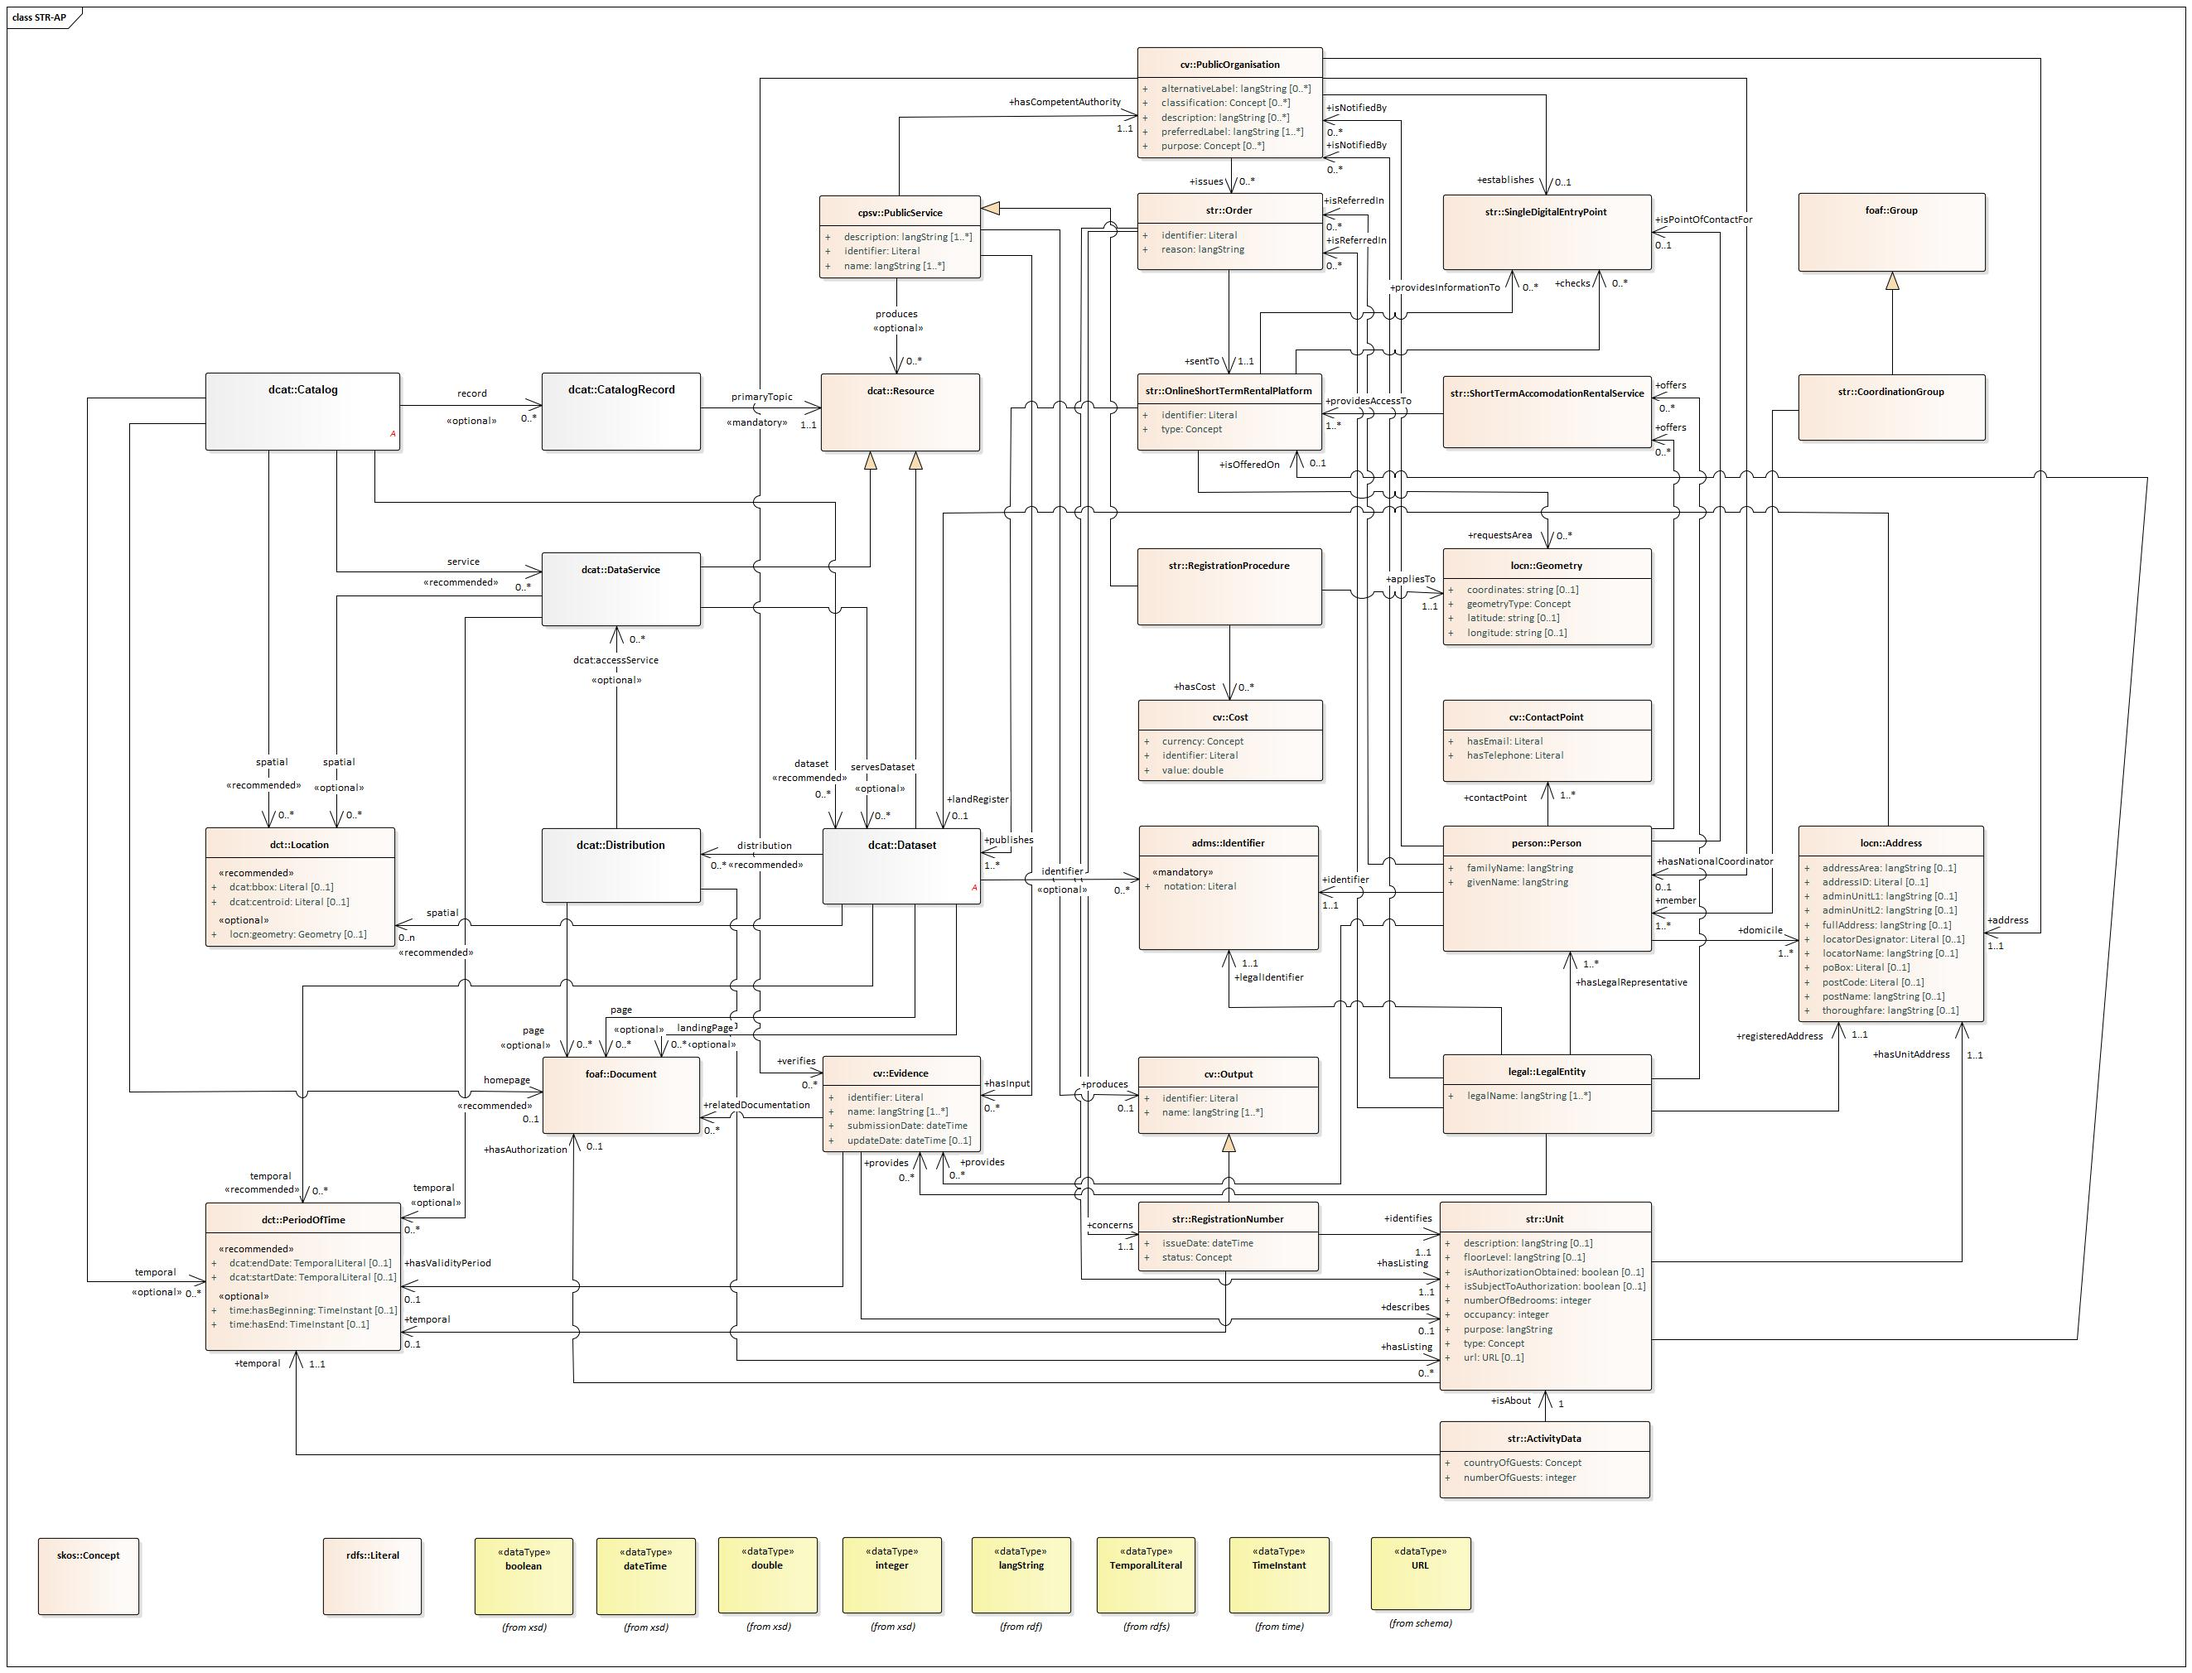
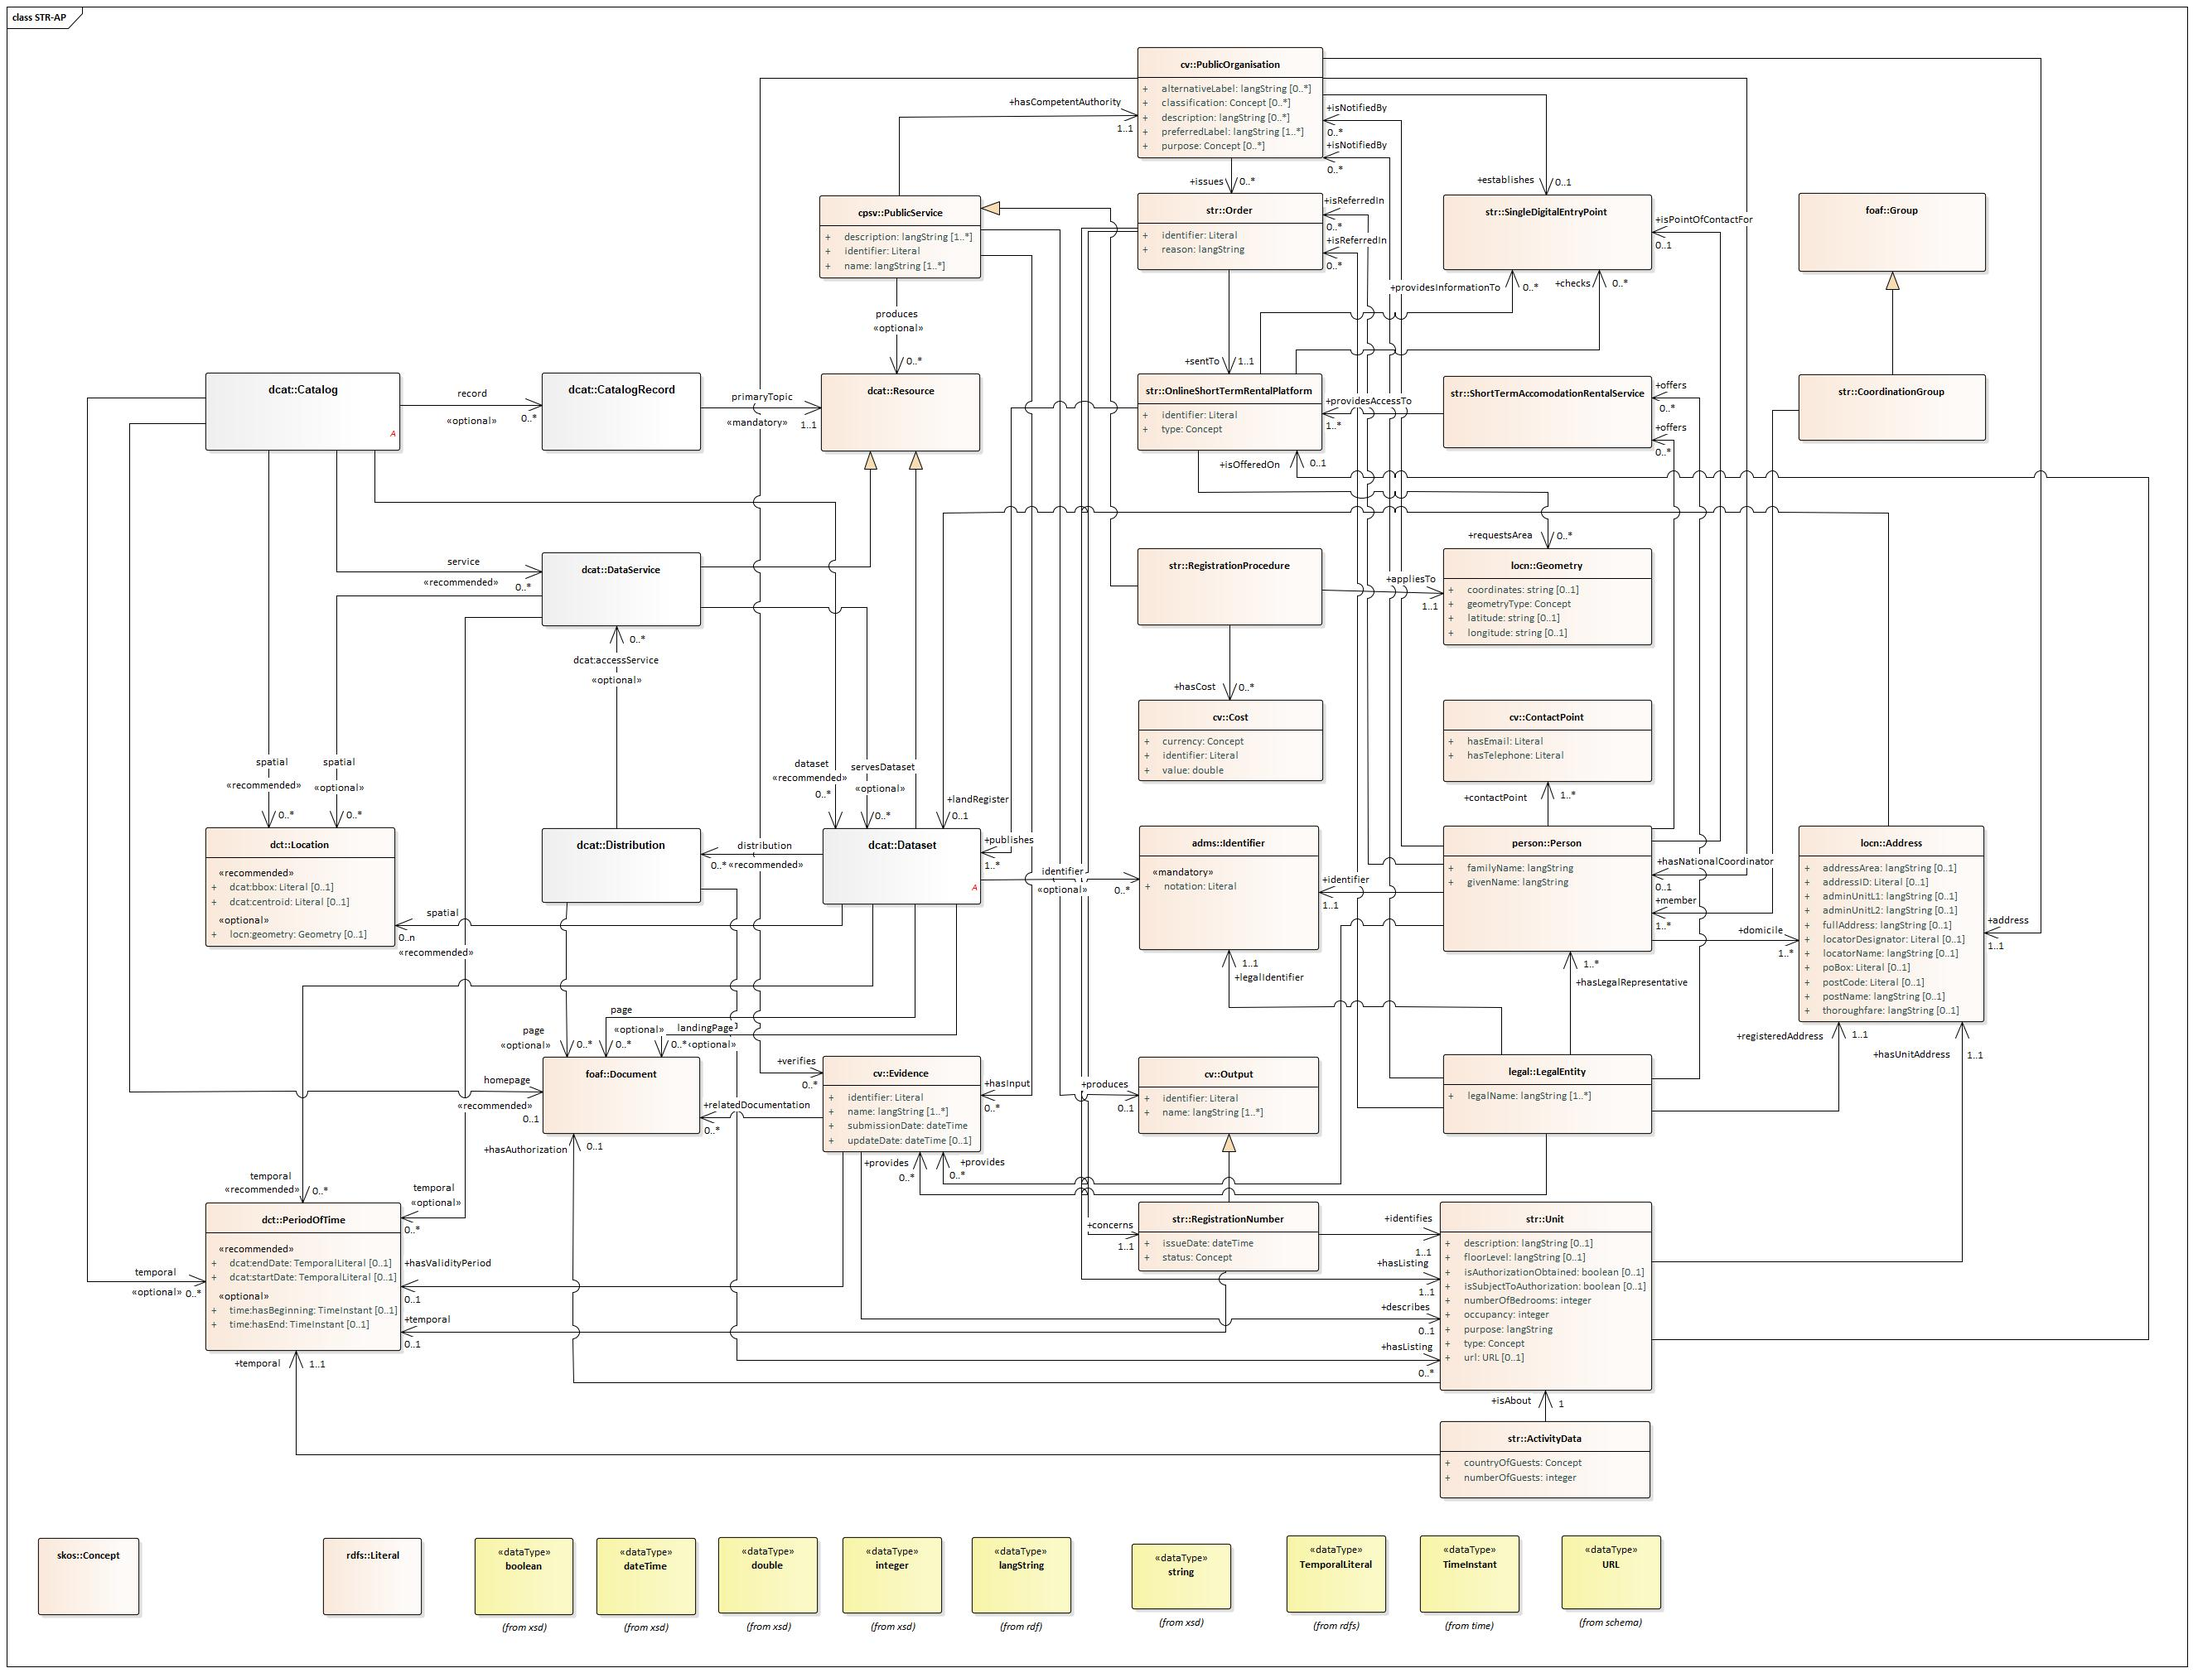
update model

diff --git a/index.html b/index.html
@@ -339,7 +339,7 @@ This specification uses the following prefixes to shorten the URIs for readibili
                         <p>
                             And supported by these datatypes:
                             <br />
-                            | <a href="#Boolean">Boolean</a> | <a href="#DateTime">DateTime</a> | <a href="#Double">Double</a> | <a href="#Integer">Integer</a> | <a href="#langString">langString</a> | <a href="#TemporalLiteral">Temporal Literal</a> | <a href="#Timeinstant">Time instant</a> | <a href="#URL">URL</a> |
+                            | <a href="#Boolean">Boolean</a> | <a href="#DateTime">DateTime</a> | <a href="#Double">Double</a> | <a href="#Integer">Integer</a> | <a href="#langString">langString</a> | <a href="#String">String</a> | <a href="#TemporalLiteral">Temporal Literal</a> | <a href="#Timeinstant">Time instant</a> | <a href="#URL">URL</a> |
                         </p>
                 
     </div>
@@ -6701,10 +6701,7 @@ The datatype of poBox is indicated as Literal (keeping backward compatibility wi
                                 <td>
                                     
                                         
-                                            <a href="#string"
-                                               data-toggle="tooltip"
-                                               data-content="https://www.w3.org/2001/XMLSchema#string"
-                                               data-placement="right">string</a>
+                                            <a href="#String" data-placement="right">String</a>
                                         
                                     
                                 </td>
@@ -6792,10 +6789,7 @@ The datatype of poBox is indicated as Literal (keeping backward compatibility wi
                                 <td>
                                     
                                         
-                                            <a href="#string"
-                                               data-toggle="tooltip"
-                                               data-content="https://www.w3.org/2001/XMLSchema#string"
-                                               data-placement="right">string</a>
+                                            <a href="#String" data-placement="right">String</a>
                                         
                                     
                                 </td>
@@ -6839,10 +6833,7 @@ The datatype of poBox is indicated as Literal (keeping backward compatibility wi
                                 <td>
                                     
                                         
-                                            <a href="#string"
-                                               data-toggle="tooltip"
-                                               data-content="https://www.w3.org/2001/XMLSchema#string"
-                                               data-placement="right">string</a>
+                                            <a href="#String" data-placement="right">String</a>
                                         
                                     
                                 </td>
@@ -8288,6 +8279,22 @@ described as a dcat:Catalog, a dcat:Dataset or a dcat:DataService.
                     The class rdf:langString is the class of language-tagged string values. rdf:langString is an instance of rdfs:Datatype and a subclass of rdfs:Literal .
 		</td></tr>
 		<tr><td>
+                   <a href="https://github.com/SEMICeu/STR-AP/issues/new?title=Issue%20for%20String&body=Explain%20your%20issue"}}>
+                     <img src="html/callout.png" loading="lazy" alt="(create issue)" width="50" height="50"/>
+		   </a>
+		</td><td>
+                
+                    <div id="String">
+                        <a href="https://www.w3.org/2001/XMLSchema#string"
+                           data-toggle="tooltip"
+                           data-content="https://www.w3.org/2001/XMLSchema#string"
+                           data-placement="right">String</a>
+                    </div>
+                
+		</td><td>
+                    The string datatype represents character strings in XML.
+		</td></tr>
+		<tr><td>
                    <a href="https://github.com/SEMICeu/STR-AP/issues/new?title=Issue%20for%20TemporalLiteral&body=Explain%20your%20issue"}}>
                      <img src="html/callout.png" loading="lazy" alt="(create issue)" width="50" height="50"/>
 		   </a>
@@ -8333,7 +8340,7 @@ described as a dcat:Catalog, a dcat:Dataset or a dcat:DataService.
                     </div>
                 
 		</td><td>
-                    
+                    A uniform resource locator (URL), colloquially known as an address on the Web,[1] is a reference to a resource that specifies its location on a computer network and a mechanism for retrieving it.
 		</td></tr>
             </tbody>
 	</table>

diff --git a/releases/1.0.0/index.html b/releases/1.0.0/index.html
@@ -339,7 +339,7 @@ This specification uses the following prefixes to shorten the URIs for readibili
                         <p>
                             And supported by these datatypes:
                             <br />
-                            | <a href="#Boolean">Boolean</a> | <a href="#DateTime">DateTime</a> | <a href="#Double">Double</a> | <a href="#Integer">Integer</a> | <a href="#langString">langString</a> | <a href="#TemporalLiteral">Temporal Literal</a> | <a href="#Timeinstant">Time instant</a> | <a href="#URL">URL</a> |
+                            | <a href="#Boolean">Boolean</a> | <a href="#DateTime">DateTime</a> | <a href="#Double">Double</a> | <a href="#Integer">Integer</a> | <a href="#langString">langString</a> | <a href="#String">String</a> | <a href="#TemporalLiteral">Temporal Literal</a> | <a href="#Timeinstant">Time instant</a> | <a href="#URL">URL</a> |
                         </p>
                 
     </div>
@@ -6701,10 +6701,7 @@ The datatype of poBox is indicated as Literal (keeping backward compatibility wi
                                 <td>
                                     
                                         
-                                            <a href="#string"
-                                               data-toggle="tooltip"
-                                               data-content="https://www.w3.org/2001/XMLSchema#string"
-                                               data-placement="right">string</a>
+                                            <a href="#String" data-placement="right">String</a>
                                         
                                     
                                 </td>
@@ -6792,10 +6789,7 @@ The datatype of poBox is indicated as Literal (keeping backward compatibility wi
                                 <td>
                                     
                                         
-                                            <a href="#string"
-                                               data-toggle="tooltip"
-                                               data-content="https://www.w3.org/2001/XMLSchema#string"
-                                               data-placement="right">string</a>
+                                            <a href="#String" data-placement="right">String</a>
                                         
                                     
                                 </td>
@@ -6839,10 +6833,7 @@ The datatype of poBox is indicated as Literal (keeping backward compatibility wi
                                 <td>
                                     
                                         
-                                            <a href="#string"
-                                               data-toggle="tooltip"
-                                               data-content="https://www.w3.org/2001/XMLSchema#string"
-                                               data-placement="right">string</a>
+                                            <a href="#String" data-placement="right">String</a>
                                         
                                     
                                 </td>
@@ -8288,6 +8279,22 @@ described as a dcat:Catalog, a dcat:Dataset or a dcat:DataService.
                     The class rdf:langString is the class of language-tagged string values. rdf:langString is an instance of rdfs:Datatype and a subclass of rdfs:Literal .
 		</td></tr>
 		<tr><td>
+                   <a href="https://github.com/SEMICeu/STR-AP/issues/new?title=Issue%20for%20String&body=Explain%20your%20issue"}}>
+                     <img src="html/callout.png" loading="lazy" alt="(create issue)" width="50" height="50"/>
+		   </a>
+		</td><td>
+                
+                    <div id="String">
+                        <a href="https://www.w3.org/2001/XMLSchema#string"
+                           data-toggle="tooltip"
+                           data-content="https://www.w3.org/2001/XMLSchema#string"
+                           data-placement="right">String</a>
+                    </div>
+                
+		</td><td>
+                    The string datatype represents character strings in XML.
+		</td></tr>
+		<tr><td>
                    <a href="https://github.com/SEMICeu/STR-AP/issues/new?title=Issue%20for%20TemporalLiteral&body=Explain%20your%20issue"}}>
                      <img src="html/callout.png" loading="lazy" alt="(create issue)" width="50" height="50"/>
 		   </a>
@@ -8333,7 +8340,7 @@ described as a dcat:Catalog, a dcat:Dataset or a dcat:DataService.
                     </div>
                 
 		</td><td>
-                    
+                    A uniform resource locator (URL), colloquially known as an address on the Web,[1] is a reference to a resource that specifies its location on a computer network and a mechanism for retrieving it.
 		</td></tr>
             </tbody>
 	</table>
